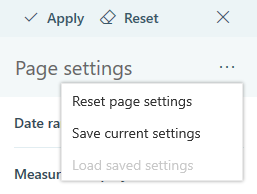
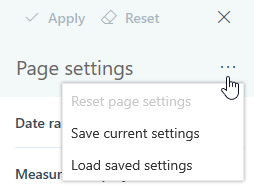
updates for chart
settings

diff --git a/WorkplaceAnalytics/Use/chart-types.md b/WorkplaceAnalytics/Use/chart-types.md
@@ -162,7 +162,7 @@ In a chart pair, you use the column chart or box plot on the left to change the 
 
    > [!Note]
    > * The Undo tool currently only applies to reversing changes made with the Drilldown and the Exclude groups chart tools.
-   > * You can apply these drill down and exclude actions to all Explore charts with [Page settings](#chart-page-settings-and-filters).
+   > * You can apply these drill down and exclude actions with [Chart settings](#chart-page-settings-and-filters).
 
 #### To switch between percentage and hours data
 
@@ -185,7 +185,7 @@ In a chart pair, you use the column chart or box plot on the left to change the 
    > [!Note]
    > Because **Download CSV** gives you only the summarized data shown in the chart, it does not include the query data that was used to generate the chart, so privacy and minimum aggregation rules are adhered to.
 
-### Chart page settings and filters
+### Page and chart settings and filters
 
 Use **Page settings** to change the time range of the data, to change the attribute to group in the charts, and to apply filters. In the following procedures, if the **Page settings** panel is not already open, open it by selecting **Settings and filters**:
 
@@ -201,11 +201,17 @@ After you change a setting or add a filter, select **Apply** at the upper-right 
 
 #### To save custom settings and applied filters for later use
 
-After you change one or more page settings or add one of more filters, you can select the **ellipsis** (**...**) next to **Page settings** > **Save current settings** to save these chart settings or applied filters for later use.
+After you change one or more page settings, chart or add one of more filters, you can:
 
-The next time you open Explore in Workplace Analytics, it shows the charts with the default page settings and filters. To view the custom chart settings saved from earlier, select the **ellipsis** (**...**) next to **Page settings** > **Load saved settings**.
+* Select the **ellipsis** (**...**) next to **Page settings** > **Save current settings** to save page settings or applied filters for later use.
 
 ![Save settings](../images/wpa/use/save-page-settings.png)
+
+* In the **Page settings** pane, select the **ellipsis** (**...**) next to **Chart settings** > **Apply to page settings** to save specific chart settings, such as with the drilldown or exclude chart tools.
+
+![Chart settings](../images/wpa/use/chart-settings.png)
+
+The next time you open Explore in Workplace Analytics, it shows the charts with the default page settings and filters. To view the custom chart settings saved from earlier, select the **ellipsis** (**...**) next to **Page settings** > **Load saved settings**.
 
 #### To change the date range
 
@@ -216,6 +222,7 @@ The next time you open Explore in Workplace Analytics, it shows the charts with 
 
 > [!Note]
 > The date range options encompass the most recent data that has been loaded and use the following logic:
+> 
 > * A week is defined as Sunday to Saturday, and date ranges are adjusted to span the first Sunday to last Saturday of the selected range.
 > * For a week that starts in one month and ends in the following month, the data is associated with the month in which the week begins.
 
